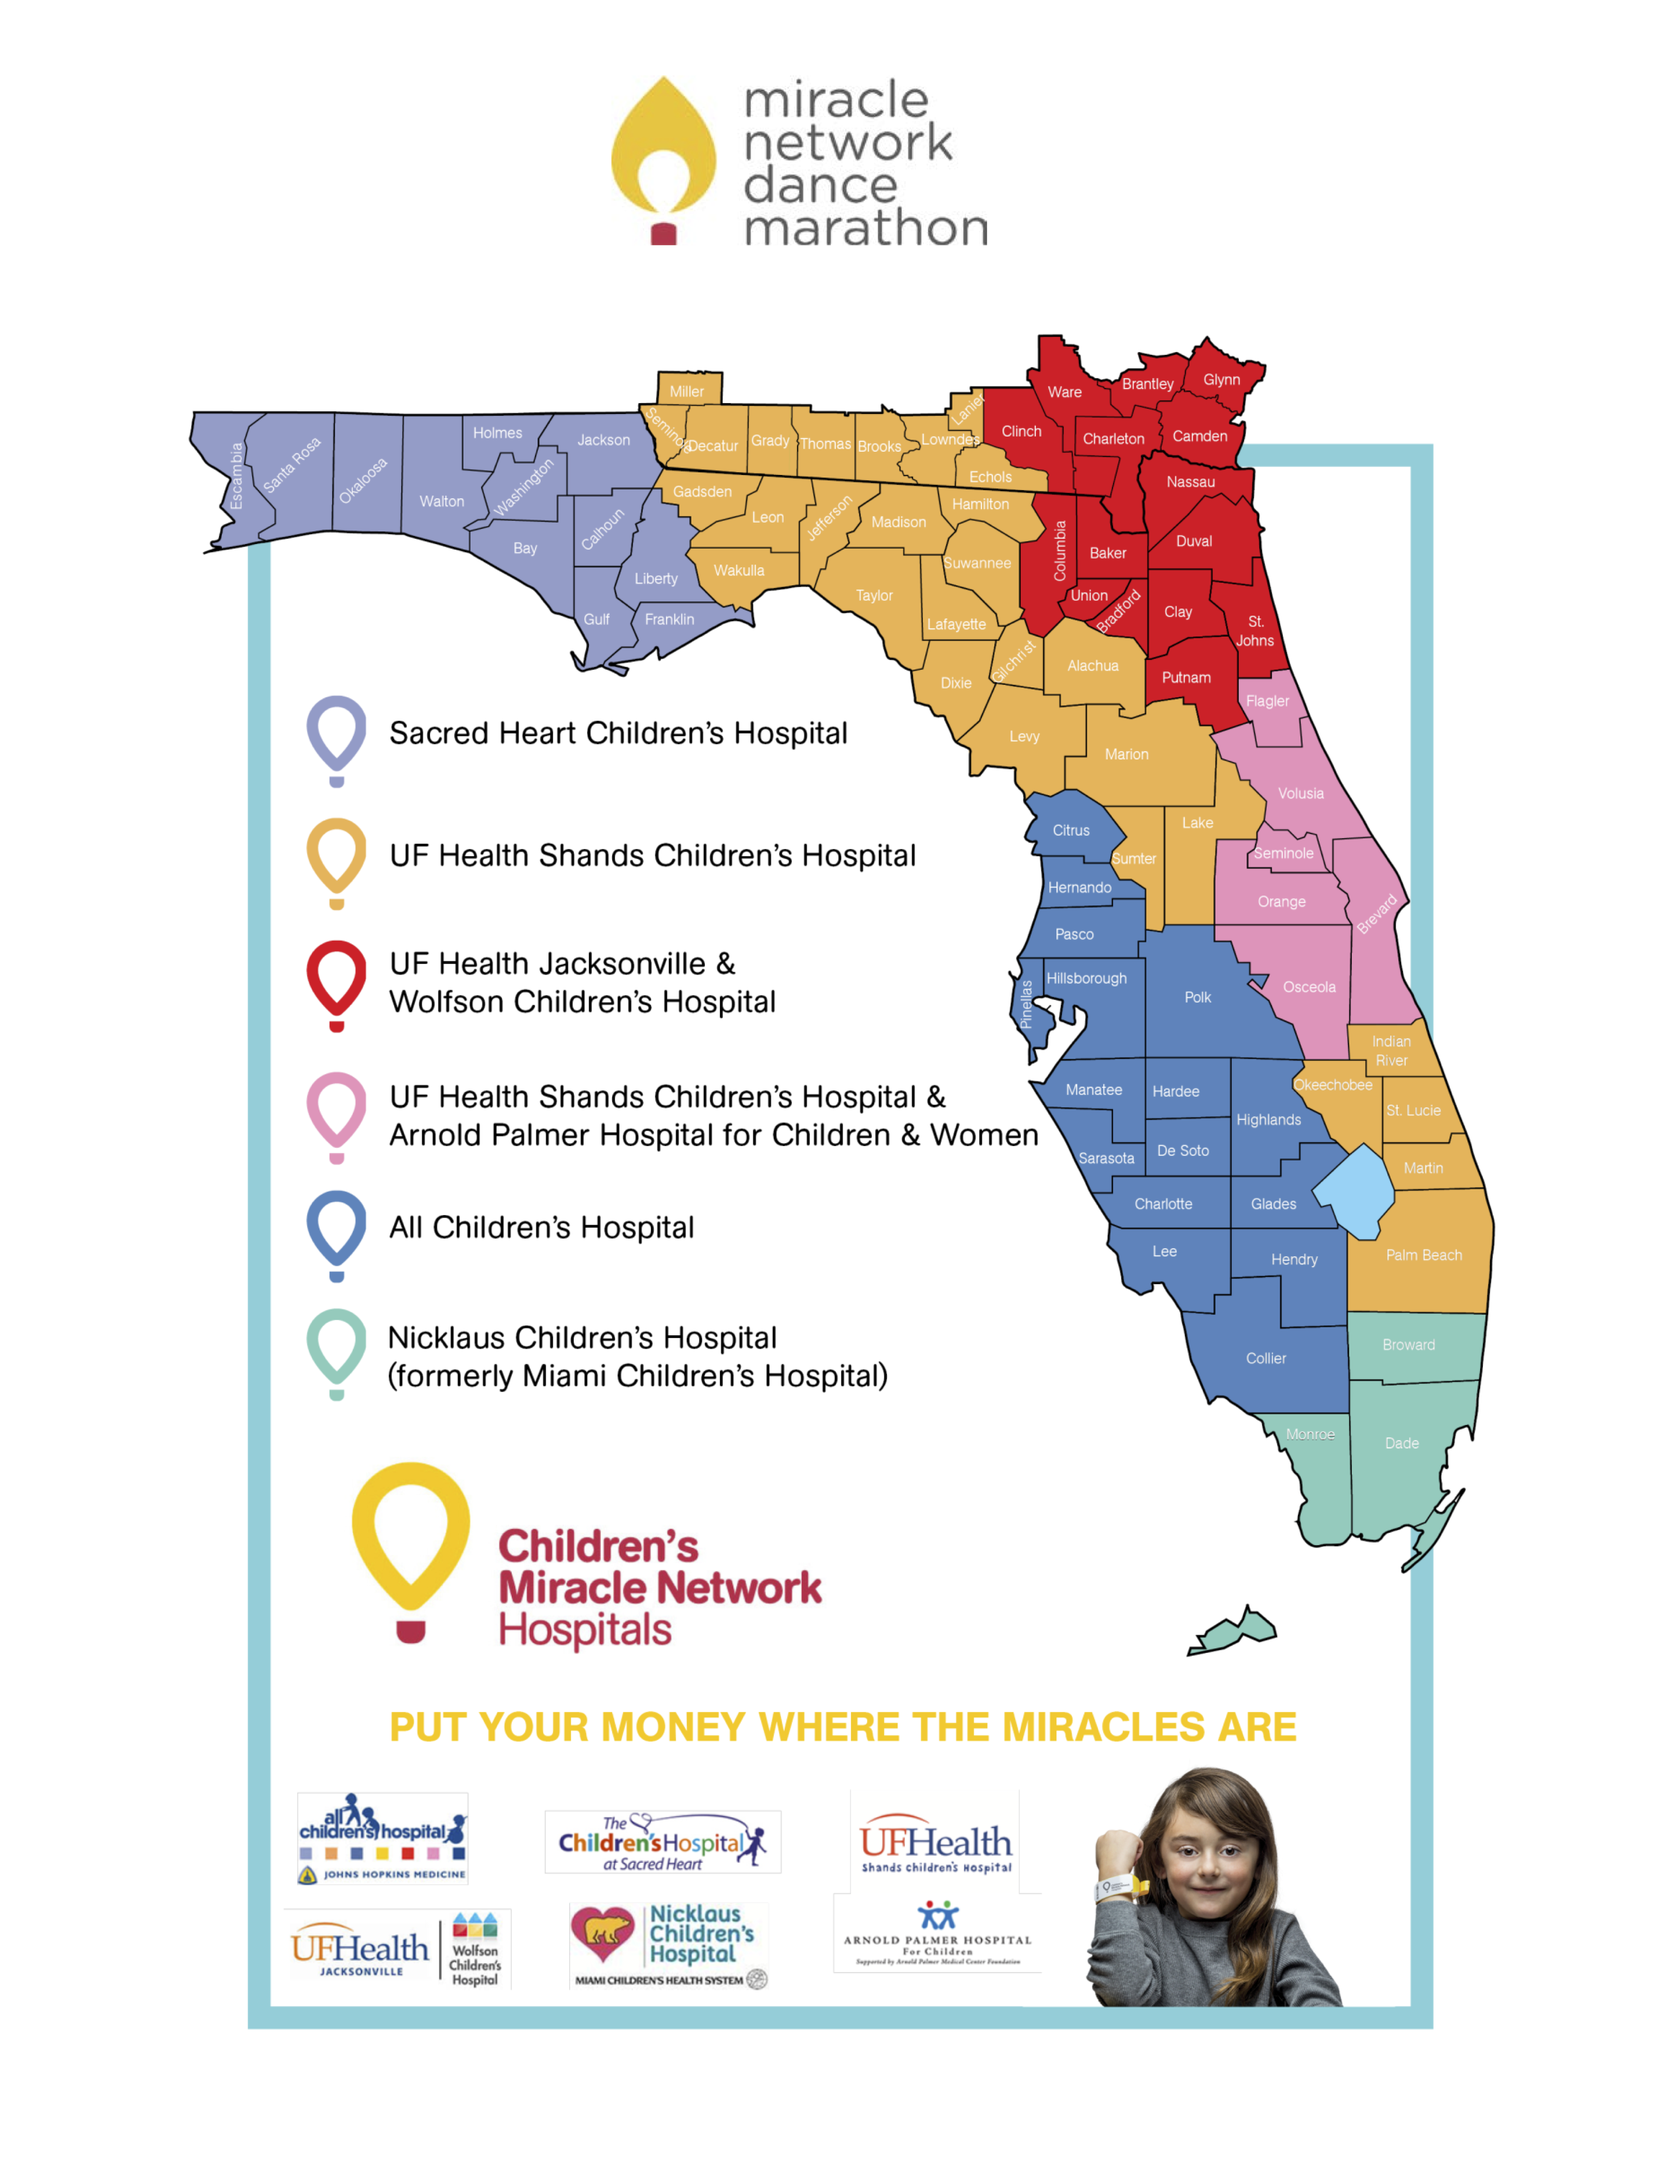
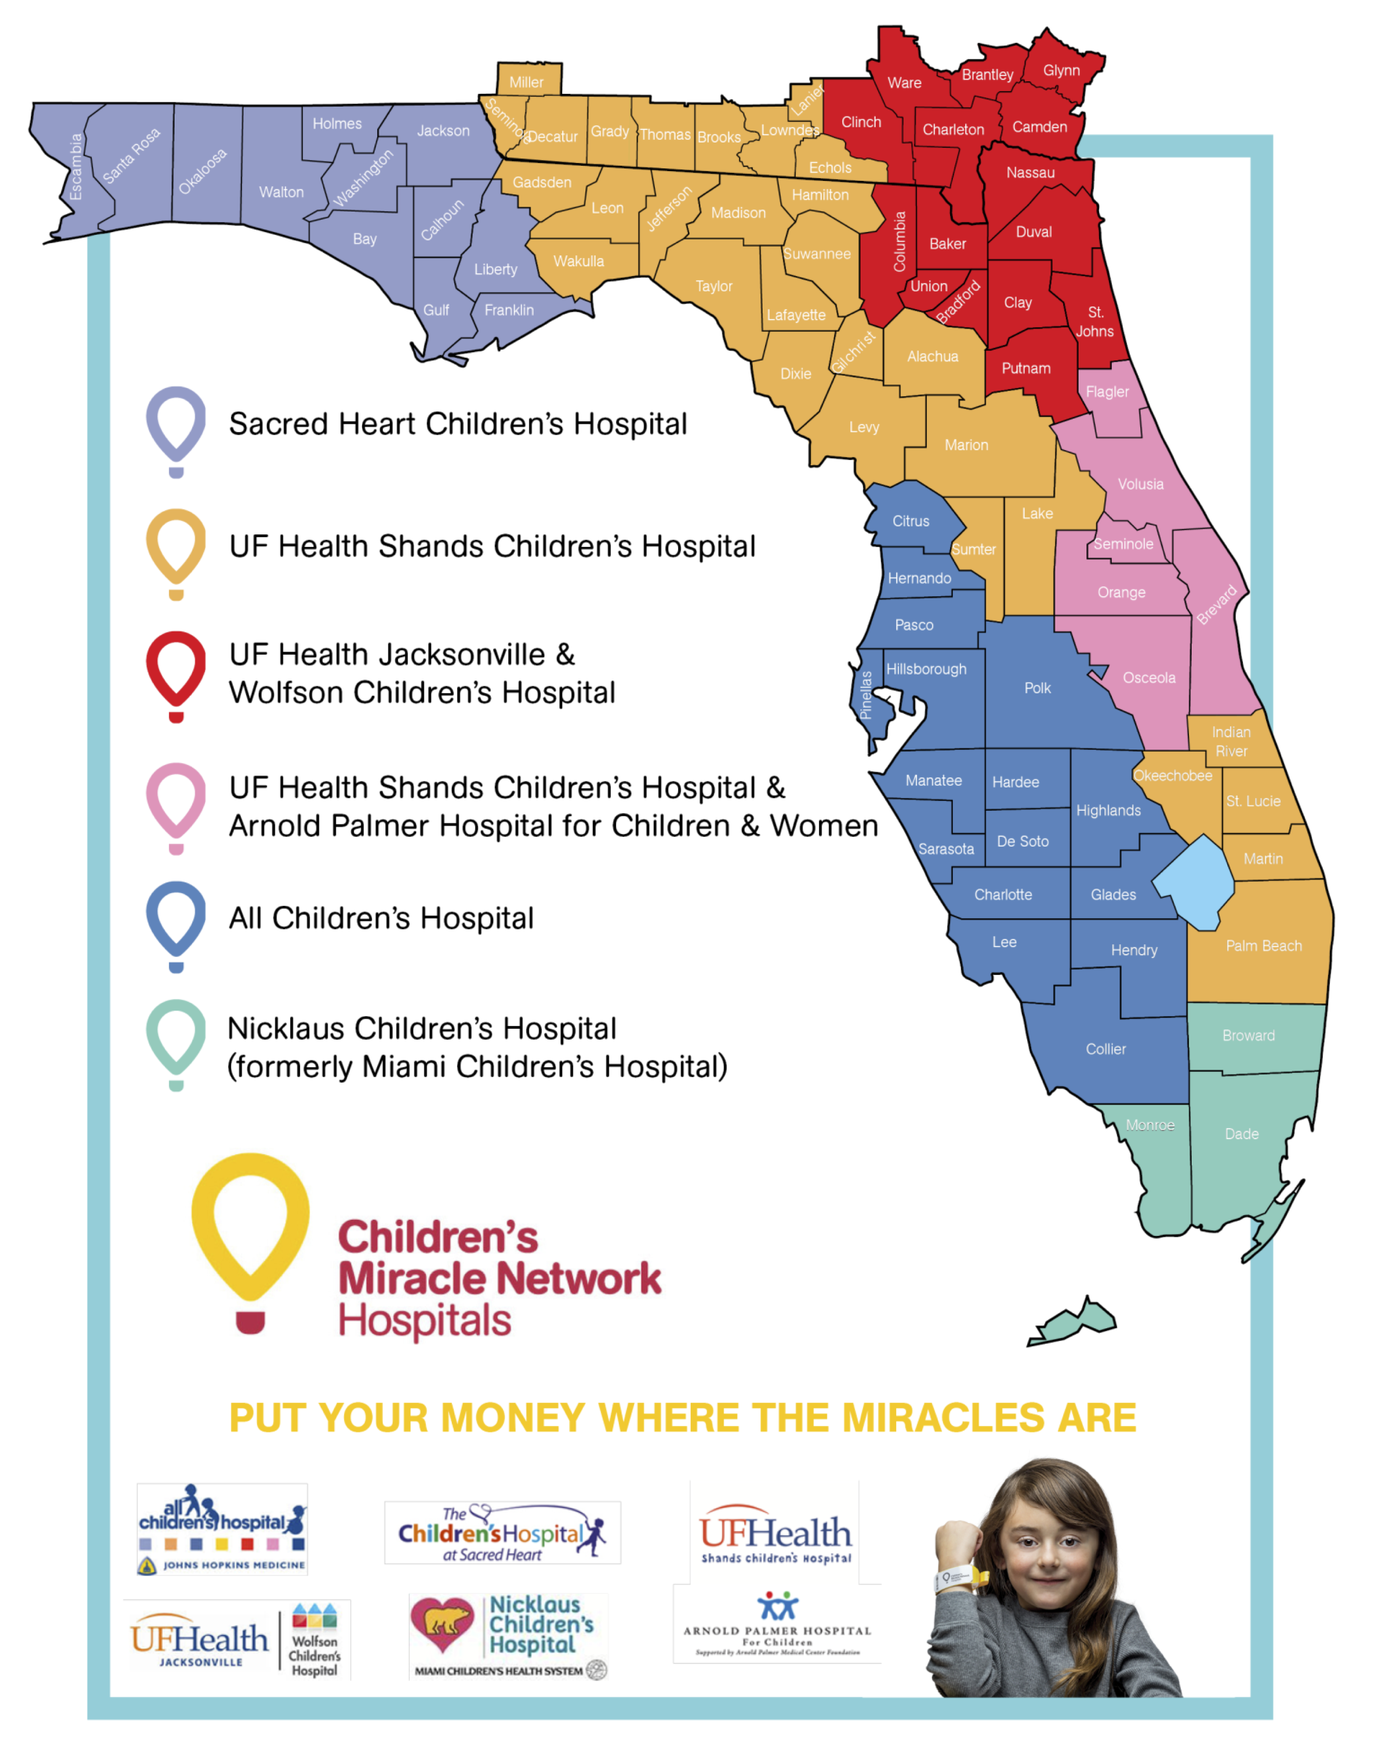
Cropped Images to make zoning guide look nicer
Cropped Images to make zoning guide look nicer in mini-marathon tab

diff --git a/mini-marathon.php b/mini-marathon.php
@@ -144,8 +144,8 @@
           </div>
 
           <div role="tabpanel" class="tab-pane fade" id="whatsmyzone">
-          <img src="/assets/images/hsdm/zoningpg1.png" width="800" height="1100" title="zoningpg1" alt="zoningpg1" />
-          <img src="/assets/images/hsdm/zoningpg2.png" width="800" height="1100" title="zoningpg2" alt="zoningpg2" />
+          <img src="/assets/images/hsdm/zoningpg1.png" width="697" height="889" title="zoningpg1" alt="zoningpg1" />
+          <img src="/assets/images/hsdm/zoningpg2.png" width="697" height="889" title="zoningpg2" alt="zoningpg2" />
 
             </div>
         </div>
